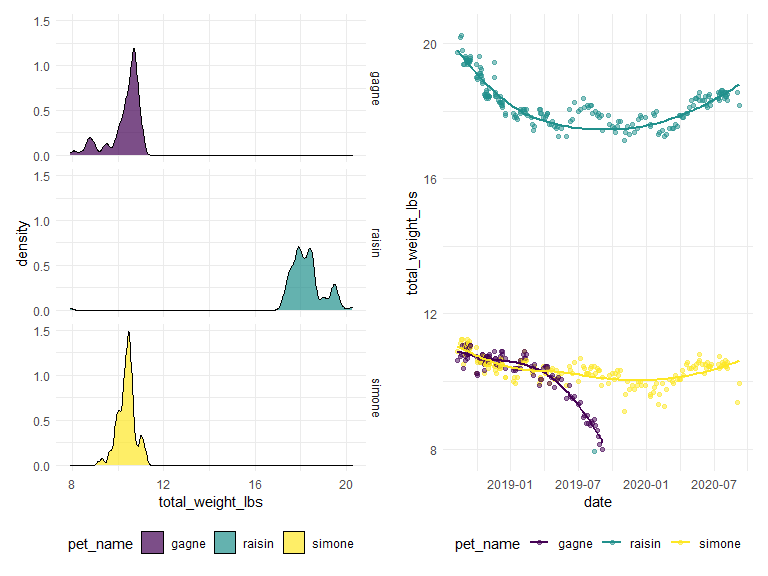
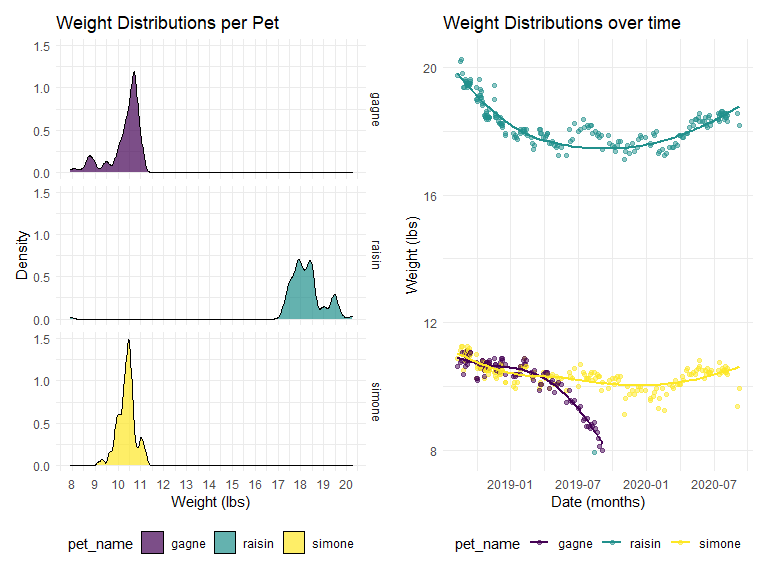
improved plots - final commit

diff --git a/p8105_mtp_sne2114.md b/p8105_mtp_sne2114.md
@@ -237,21 +237,32 @@ summary_table =
 ### Problem 3
 
      Constructing a two-panel plot with the left panel showing the
-weight distribution for each pet, and the right panel showing the
-distribution of weights of each dog over time.
+weight distribution for each pet in a density plot, and the right panel
+showing the distribution of weights of each dog over time in a scatter
+plot.
 
 ``` r
 weight_dist_plot =
   weights_tidy %>% 
   ggplot(aes(x = total_weight_lbs, fill = pet_name)) +
   geom_density(alpha = .7, adjust = .7) + 
+  labs(
+    title = "Weight Distributions per Pet",
+    x = "Weight (lbs)",
+    y = "Density") +
+  scale_x_continuous(
+    breaks = c(8, 9, 10, 11, 12, 13, 14, 15, 16, 17, 18, 19, 20, 21)) +
   facet_grid(pet_name ~ .)
 
 weight_time_plot =
   weights_tidy %>% 
   ggplot(aes(x = date, y = total_weight_lbs, color = pet_name)) + 
   geom_point(alpha = .5) +
-  geom_smooth(se = FALSE)
+  geom_smooth(se = FALSE) +
+  labs(
+    title = "Weight Distributions over time",
+    x = "Date (months)",
+    y = "Weight (lbs)")
 
 weight_dist_plot + weight_time_plot
 ```
@@ -259,3 +270,11 @@ weight_dist_plot + weight_time_plot
     ## `geom_smooth()` using method = 'loess' and formula 'y ~ x'
 
 <img src="p8105_mtp_sne2114_files/figure-gfm/plots-1.png" width="90%" />
+
+     A striking observation is that of how Gagne’s weight was in
+constant decline until Gagne passed away in September of 2019. Raisin
+and Simone both experienced dips in their weight throughout the year
+2019.  
+     Weight distributions for Gagne and Simone were similar and focused
+around the 10.5 lbs value. While for Raisin, the weight distribution is
+‘wider’ with a focus on weights ranging from 17 to 19 lbs.
